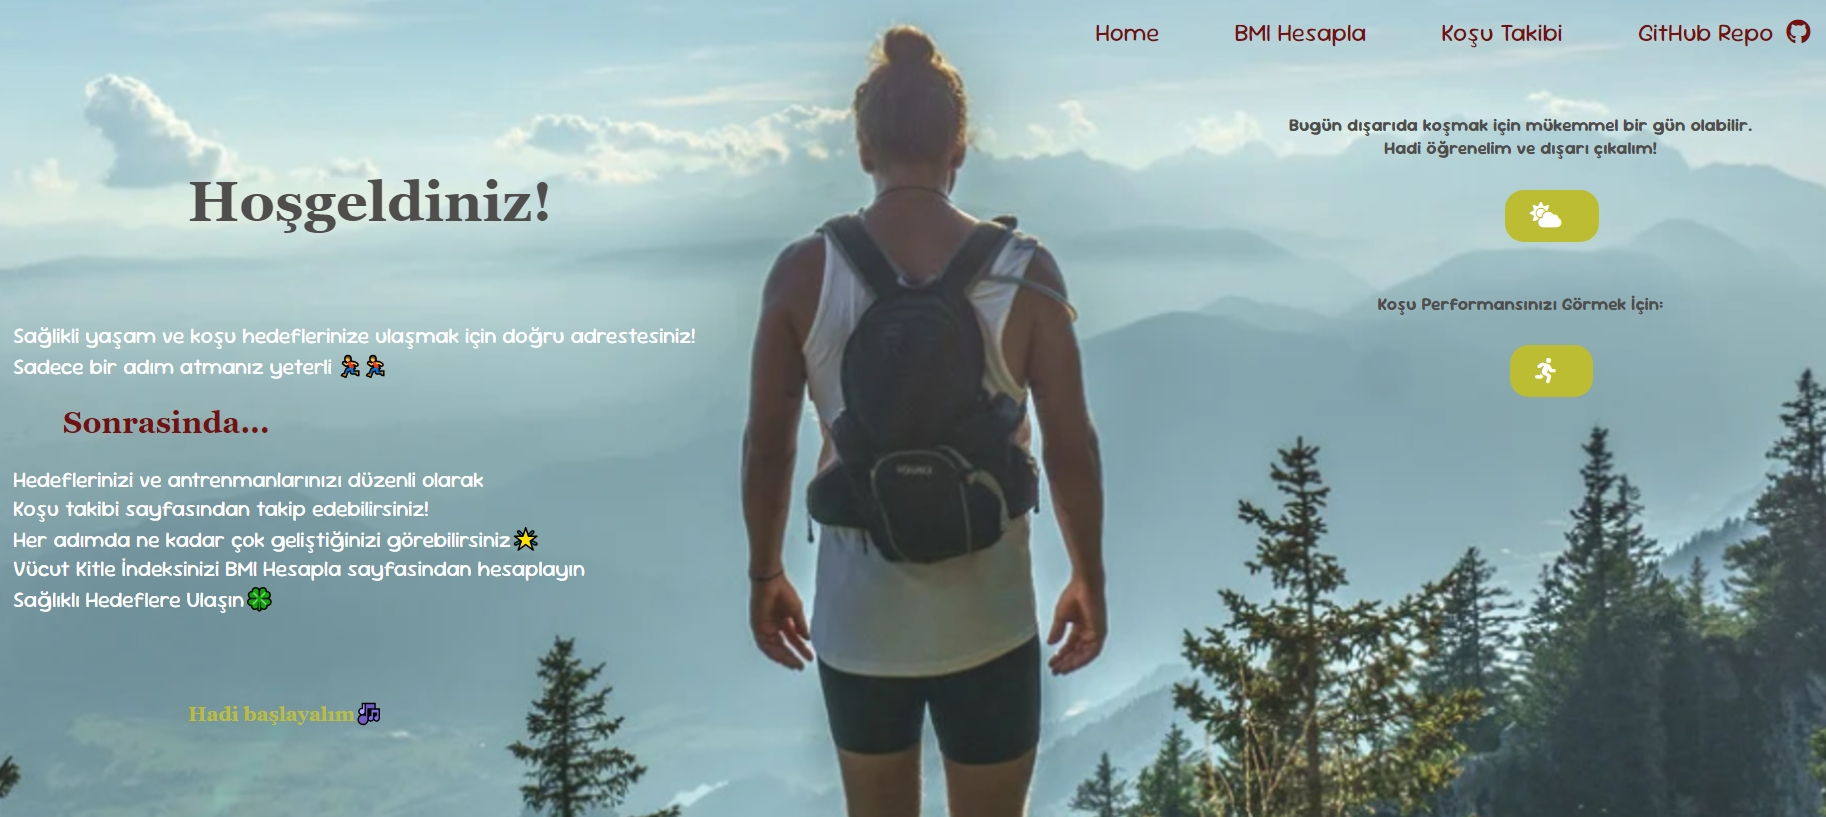
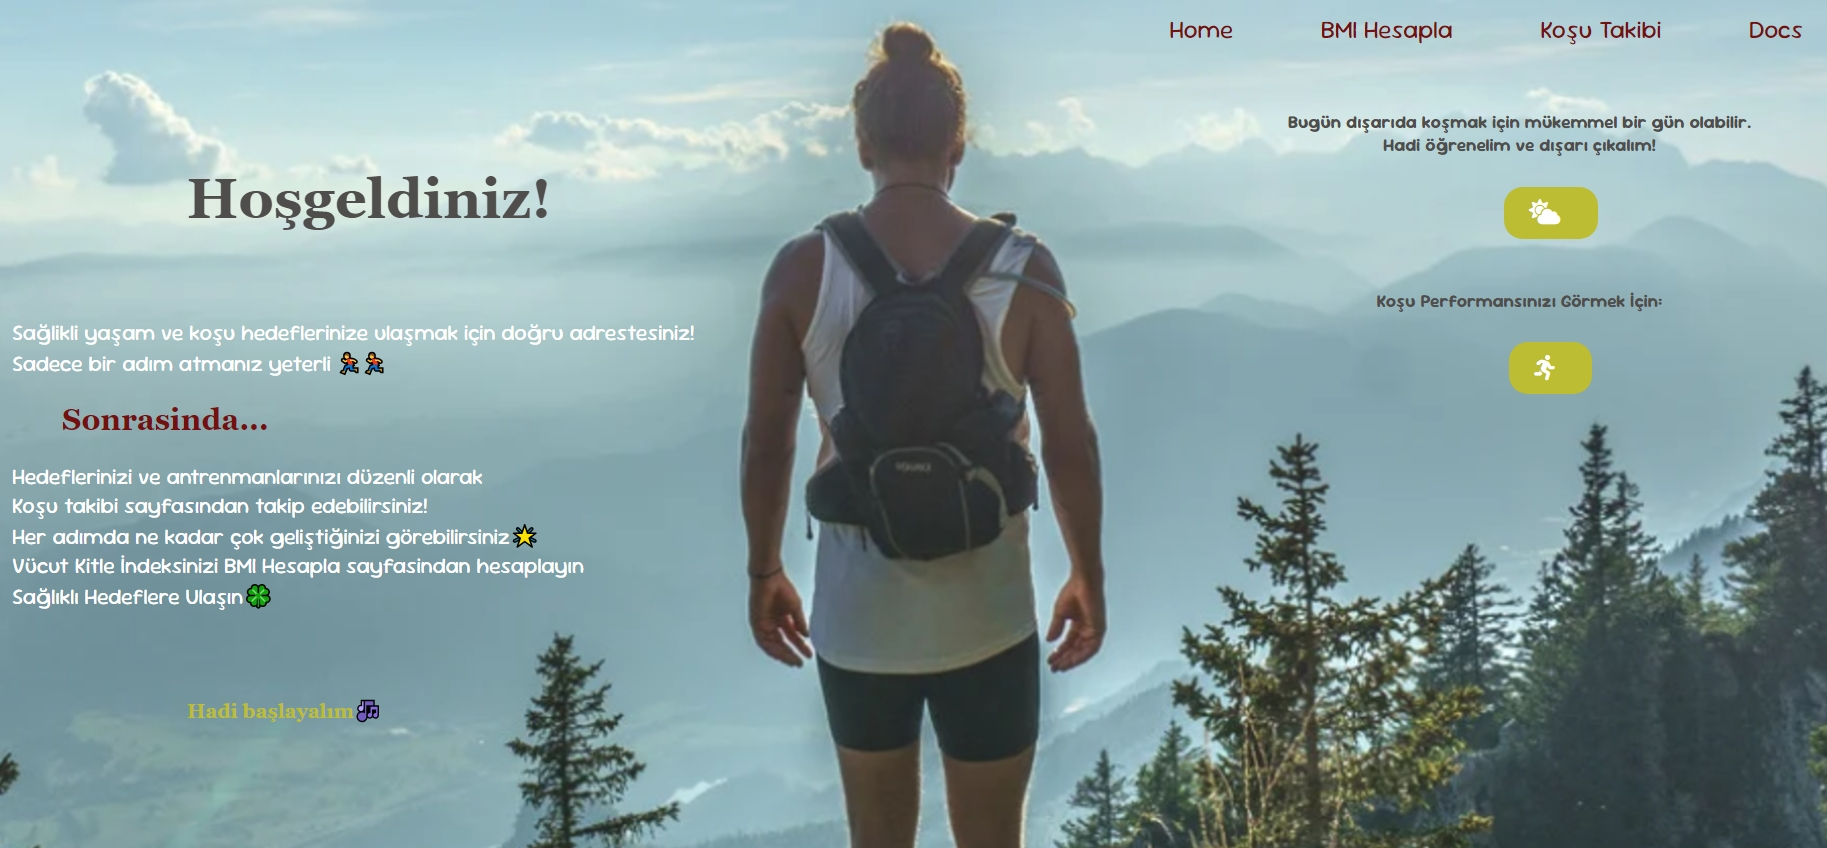
updated navbar und weather form with styling...

diff --git a/templates/weather.html b/templates/weather.html
@@ -14,19 +14,12 @@
         Hava nasıl olursa olsun, koşmak için bir neden bulabilirsin 🌤🏃</h3>
 </div>
 
-    <form method="POST">
-        <button type="submit" name="show_weather" value="true">
-           ☀ 💨 🌡 ⛈ 🌤 ❄
-        </button>
-    </form>
-
-    {% if request.method == 'POST' and request.form.get('show_weather') %}
-        <form method="POST">
-            <label for="city">Şehir Girin:</label>
-            <input type="text" id="city" name="city" required>
-            <button type="submit">Hava Durumunu Gör</button>
-        </form>
-    {% endif %}
+<!-- Şehir Girme Formu -->
+<form method="POST">
+    <label for="city">Şehir Girin:</label>
+    <input type="text" id="city" name="city" placeholder="Şehir adı..." required>
+    <button type="submit">Hava Durumunu Gör</button>
+</form>
 
 {% else %}
 <div class="hava-durumu">
@@ -36,12 +29,12 @@
     <p>Hava Durumu: {{ weather_description }}</p>
     <p><strong>{{ suggestion }}</strong></p>
 </div>
-    <!-- Tamam Butonu -->
-    <form action="/" method="get">
-        <button type="submit">Tamam</button>
-    </form>
+
+<!-- Ana Sayfaya Dön Butonu -->
+</div>
+<div class="performance">
+<a href="/" >Geri Dön</a>
+</div>
 {% endif %}
 
 {% endblock %}
-
-

diff --git a/static/css/style.css b/static/css/style.css
@@ -28,11 +28,10 @@ header nav a {
     color: #751010;
     text-decoration: none;
     font-family: "Sour Gummy", sans-serif;
-    margin: 0 15px;
+    margin: 0 20px;
     font-size: 20px;
     padding: 8px 15px;
     transition: transform 0.3s, background 0.3s, color 0.3s;
-
 }
 
 header nav li {
@@ -43,16 +42,6 @@ header nav a:hover {
     transform: scale(1.1); 
     background-color: aliceblue;
     border-radius: 20px;
-}
-
-header nav a i {
-    margin-left: 5px;
-    transition: transform 0.3s, color 0.3s;
-}
-
-header nav a i:hover {
-    color: #bdbd33;
-    transform: scale(1.3);
 }
 
 /* Ana içerik */
@@ -245,7 +234,6 @@ main .performans a:hover{
     color: #bdbd33;
 }
 
-
 main .performance {
     margin: 20px 0 20px 175px;
 }
@@ -271,7 +259,7 @@ main .veriler{
  main .hava-durumu{
     margin-left: 55px;
     font-size: 1.1rem;
-
+   
  }
 
  main .hava-durumu h3 {

diff --git a/templates/base.html b/templates/base.html
@@ -15,7 +15,7 @@
             <a href="/bmi">BMI Hesapla</a>
             <a href="/tracker">Koşu Takibi</a>
             <li><a href="https://github.com/sbrycbc/LearnPython" target="_blank">
-                GitHub Repo <i class="fab fa-github"></i>
+                Docs</i>
             </a></li>
         </nav>
     </header>

diff --git a/app.py b/app.py
@@ -50,14 +50,14 @@ def weather():
     weather_description = None
     suggestion = None
 
-    if request.method == 'POST':  # Şehir bilgisi gönderilmişse
-        city = request.form.get('city')  # Kullanıcının girdiği şehir adı
+    if request.method == 'POST':  
+        city = request.form.get('city') 
 
-        if city:  # Eğer şehir boş değilse hava durumu alınır
+        if city:  
             city = city.strip().title()
             temperature, weather_description = get_weather(city)
 
-            if temperature is not None:  # Geçerli veri varsa öneri oluştur
+            if temperature is not None: 
                 suggestion = get_weather_suggestion(temperature)
             else:
                 suggestion = "Geçersiz bir şehir adı girdiniz. Lütfen tekrar deneyin."
